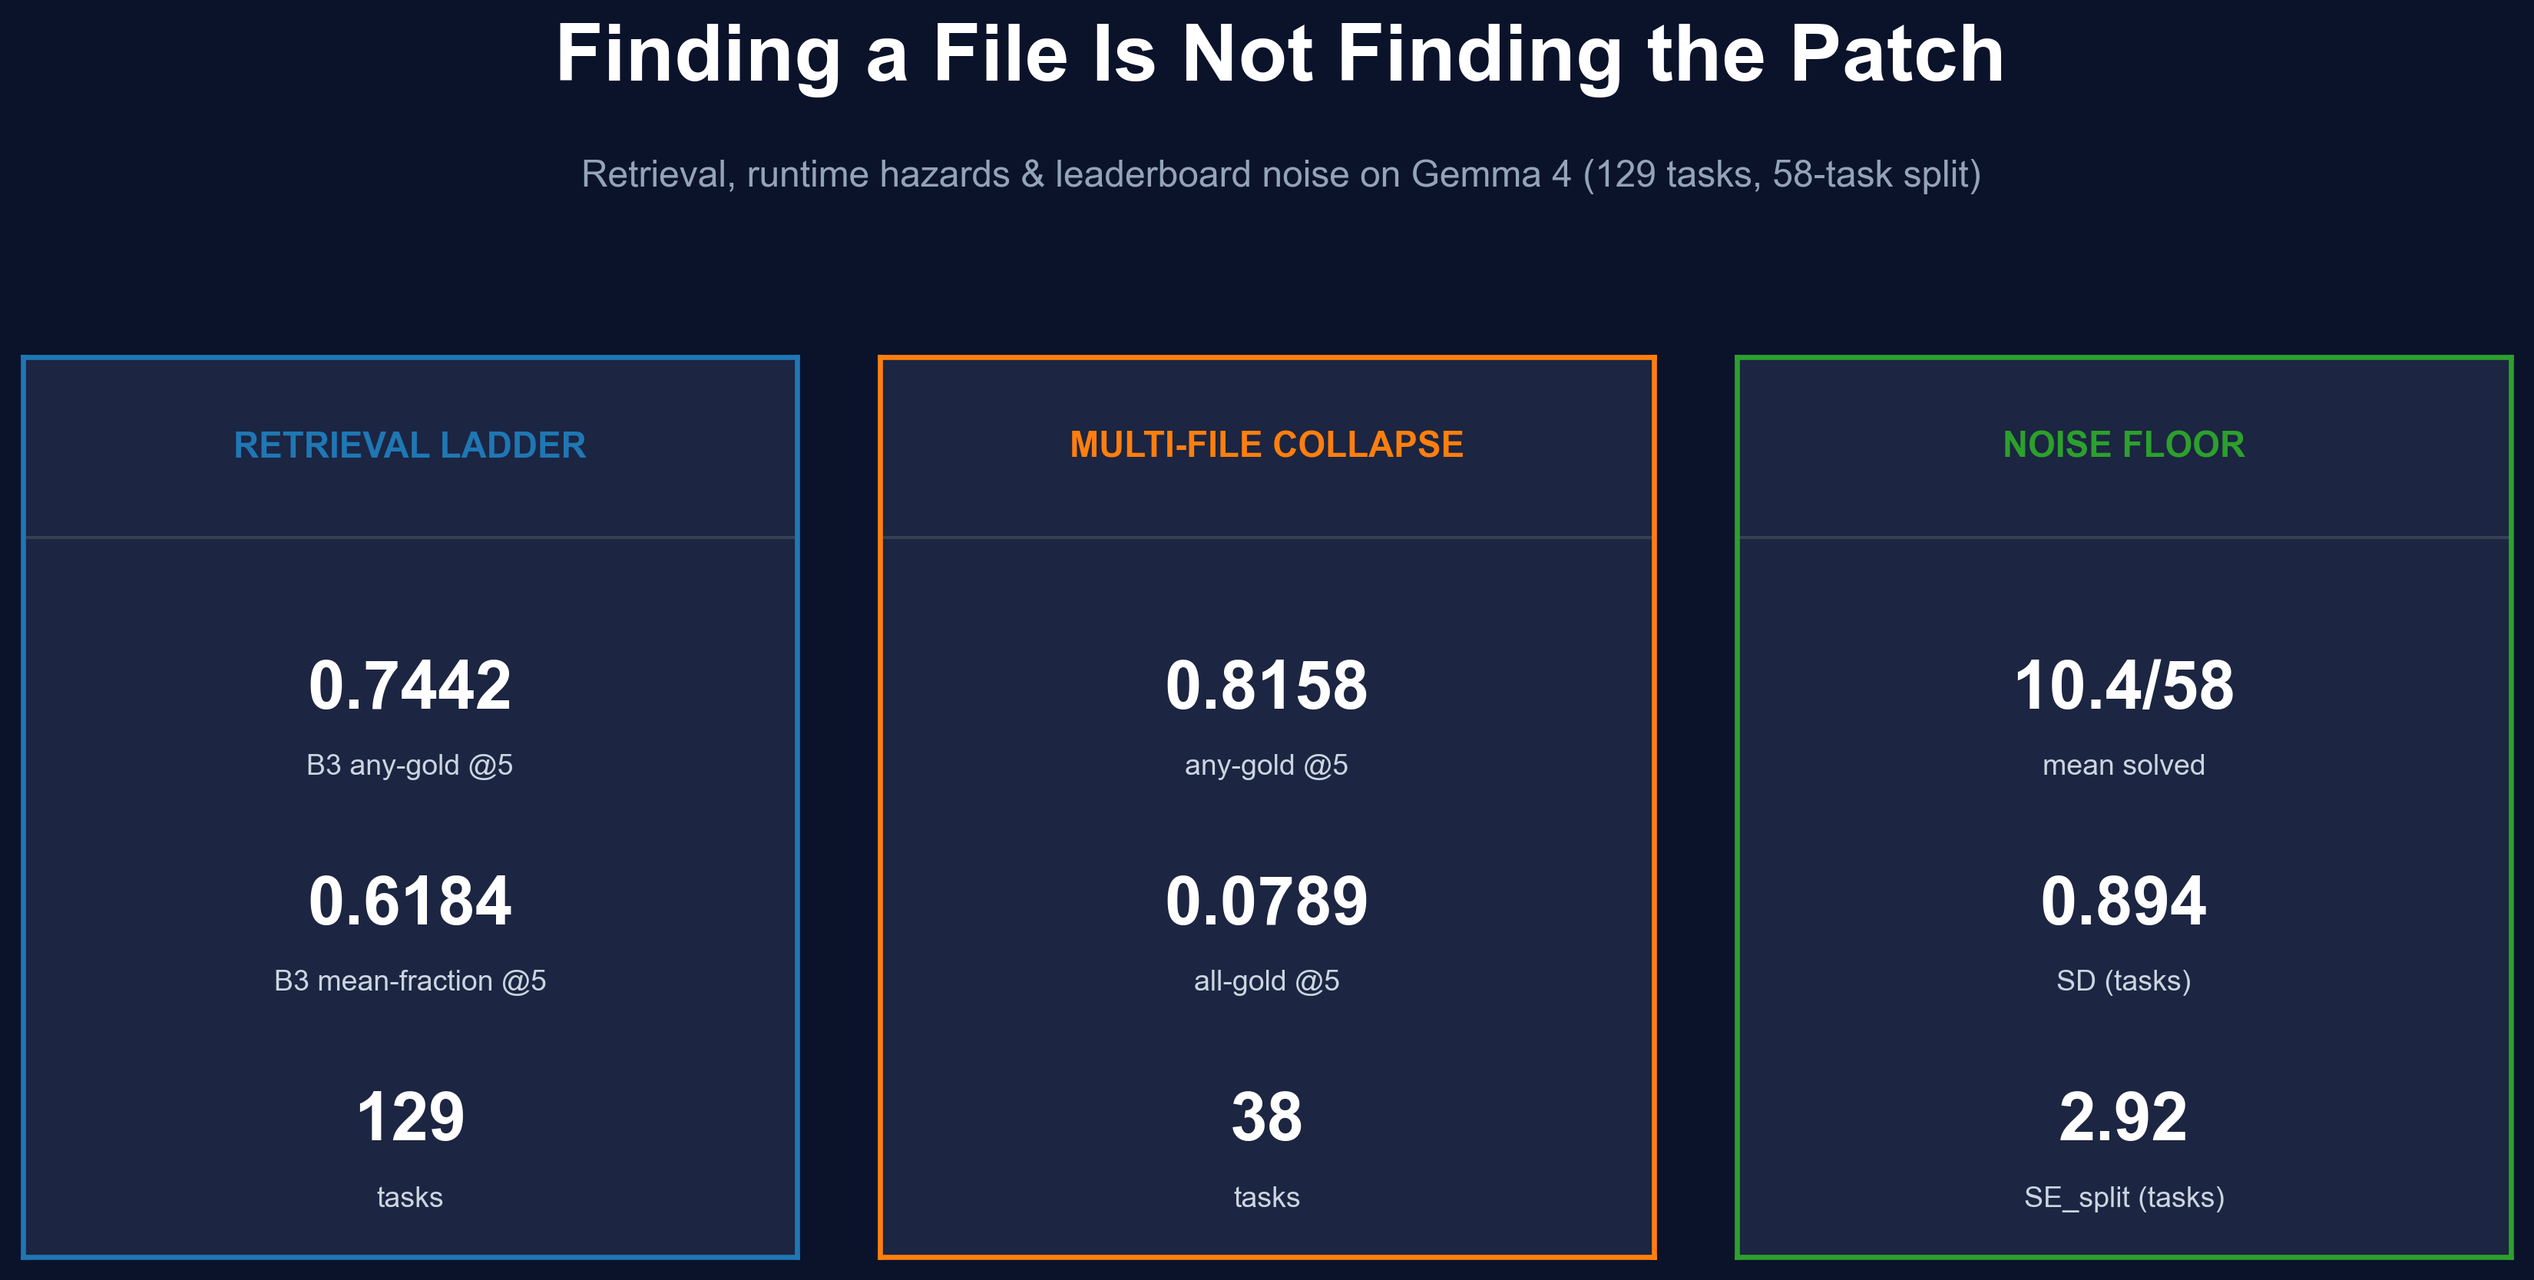
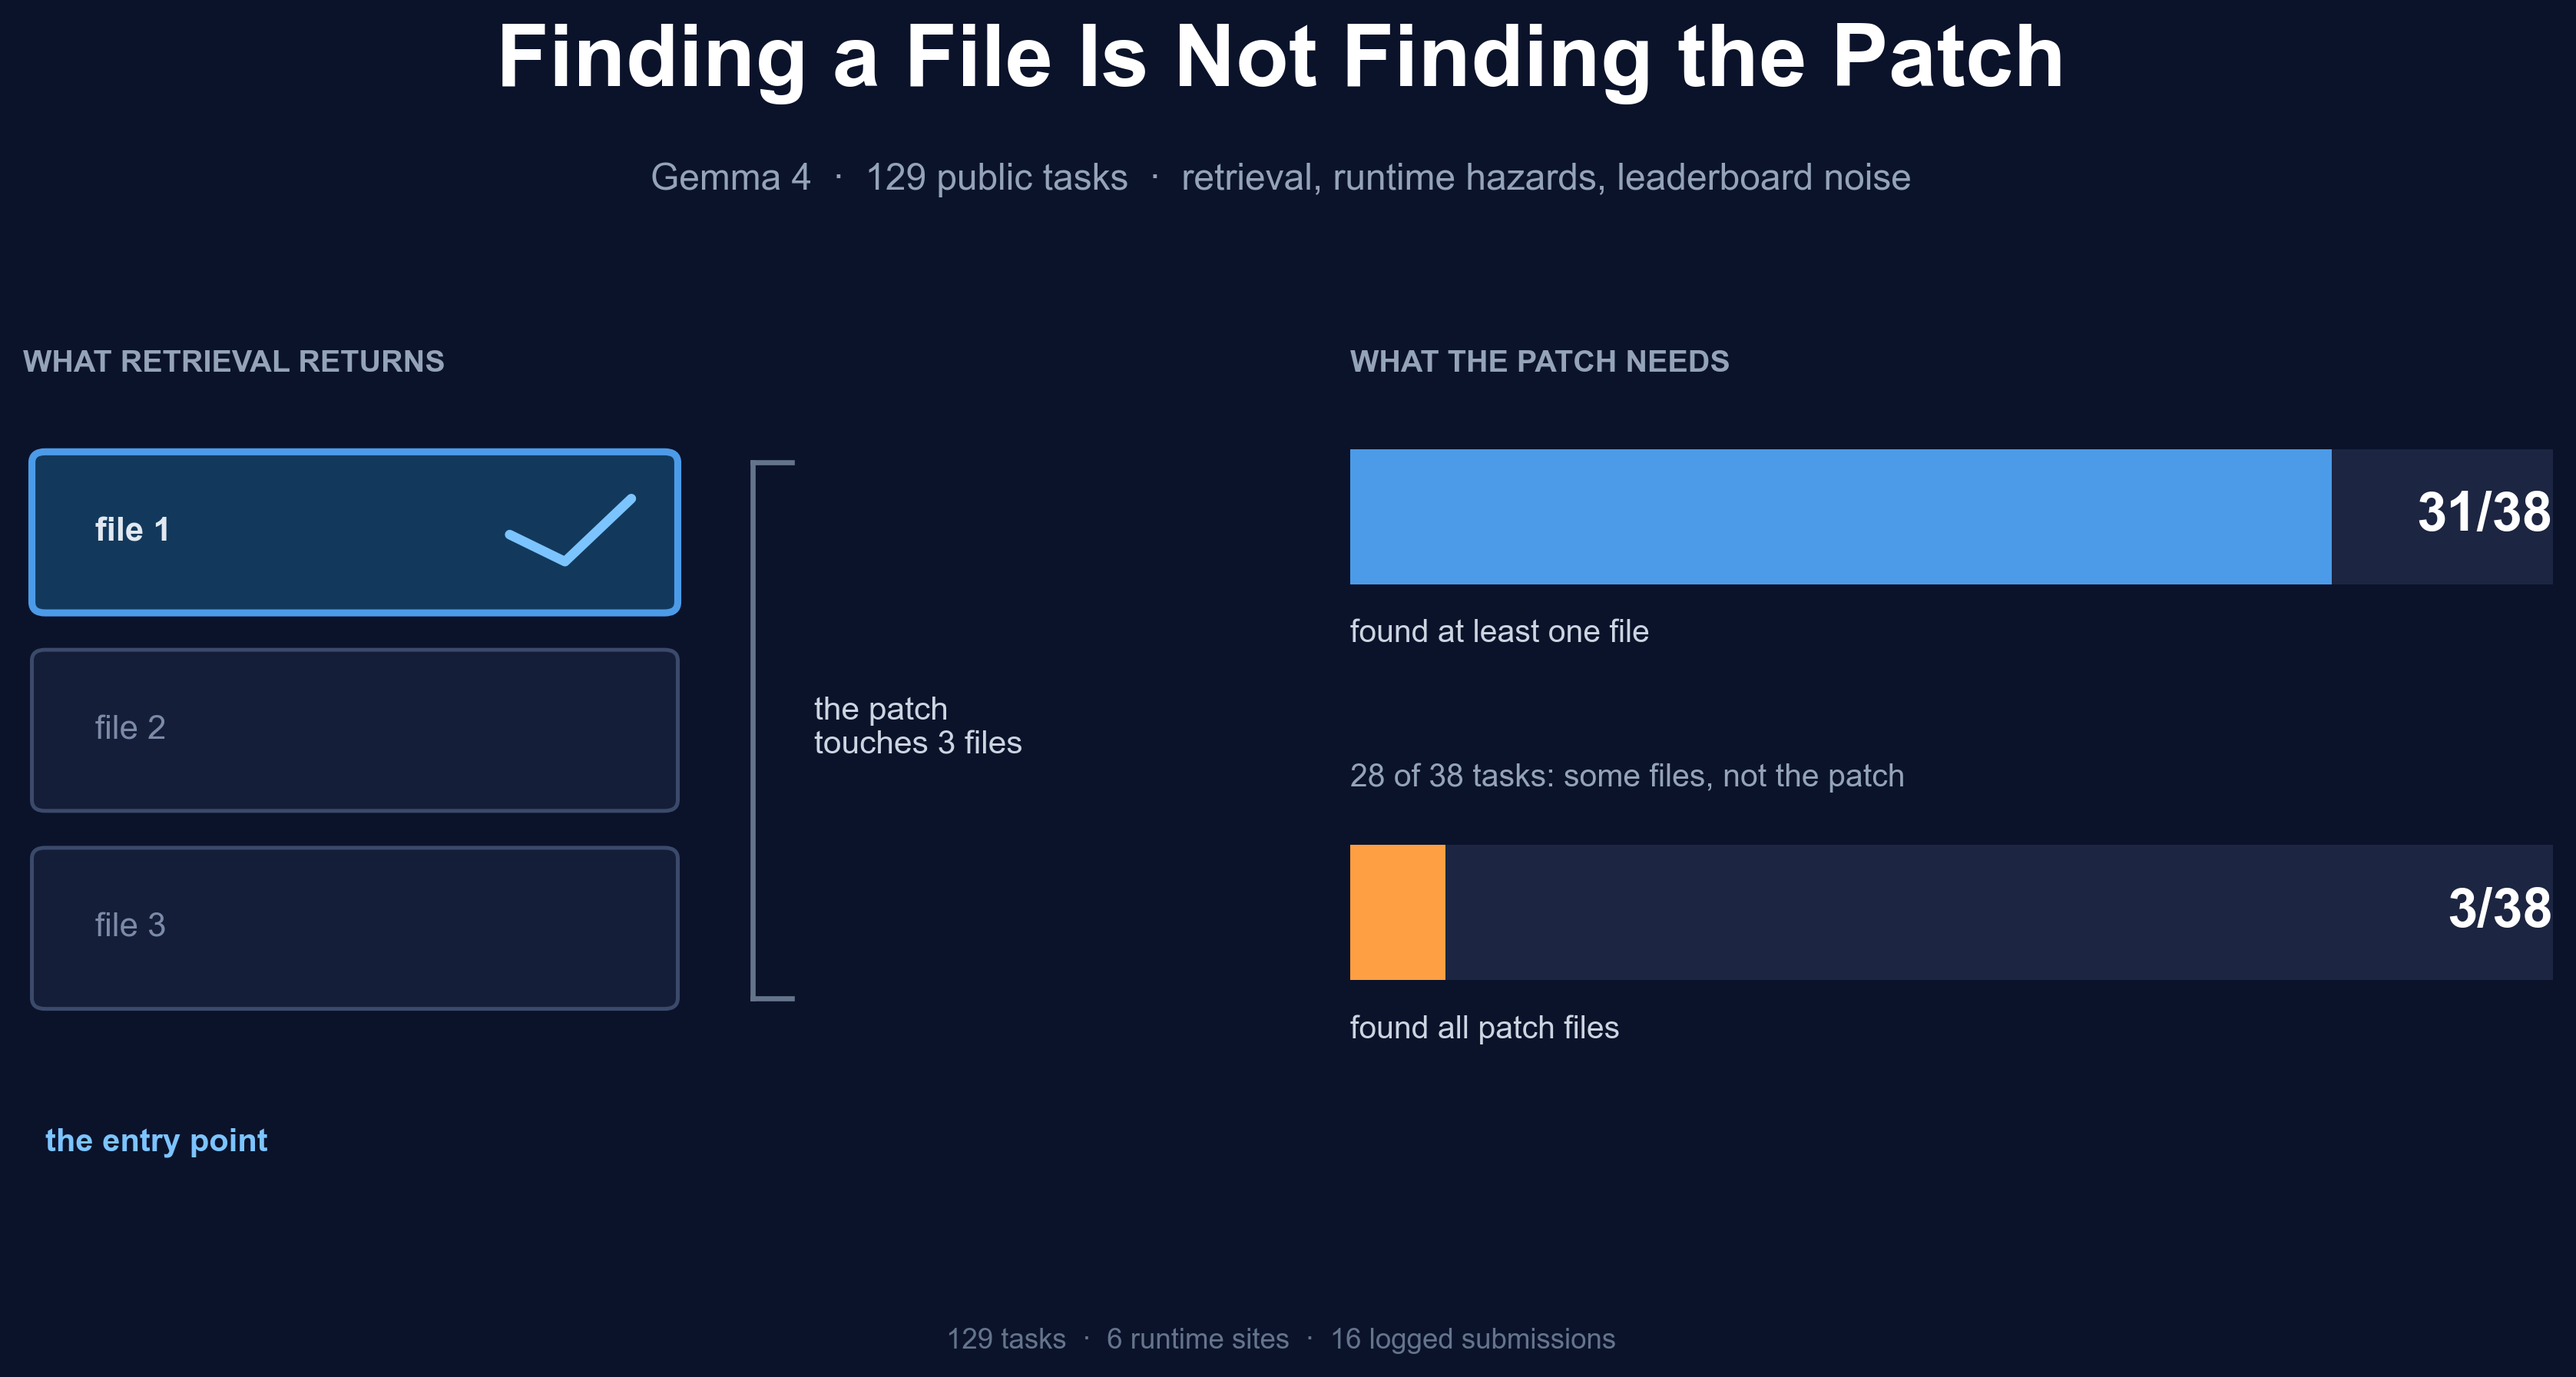
fig0: replace stat-card thumbnail with entry-point vs full-patch visual

diff --git a/scripts/generate_paper_figures.py b/scripts/generate_paper_figures.py
@@ -110,58 +110,80 @@ def ci_at(block: dict, k: int, metric: str) -> tuple[float, float, float]:
 # fig0 -- card thumbnail
 # =========================================================================== #
 def fig0(D):
-    ab, mf, lb = D["ablation"], D["multifile"], D["leaderboard"]
-    b3 = ab["results"]["B3"]["all"]
-    any5 = g(b3, "/@5/any_gold/value")
-    mfrac5 = g(b3, "/@5/mean_fraction/value")
+    ab, mf, lb, hz = D["ablation"], D["multifile"], D["leaderboard"], D["hazards"]
     multi = mf["buckets"]["all_multi"]
-    m_any = g(multi, "/control/k5/any_gold@5/value")
-    m_all = g(multi, "/control/k5/all_gold@5/value")
-    sd = lb["estimand_rows"][1]["sd_tasks"]
-    se = lb["estimand_rows"][2]["se_split_tasks"]
+    n_multi = multi["N"]
+    any_hits = multi["control"]["k5"]["any_gold@5"]["hits"]
+    all_hits = multi["control"]["k5"]["all_gold@5"]["hits"]
+    partial = any_hits - all_hits
+    n_sites = len([k for k in hz["sites"] if k.startswith("site") and len(k) == 5])
 
     fig = plt.figure(figsize=(12.0, 6.3), dpi=100)
     fig.patch.set_facecolor("#0b132b")
+
     fig.text(0.5, 0.925, "Finding a File Is Not Finding the Patch",
-             ha="center", va="center", color="#ffffff", fontsize=25, weight="bold")
+             ha="center", va="center", color="#ffffff", fontsize=27, weight="bold")
     fig.text(0.5, 0.845,
-             "Retrieval, runtime hazards & leaderboard noise on Gemma 4 "
-             f"({ab['N']} tasks, {lb['split_size']}-task split)",
+             f"Gemma 4  \u00b7  {ab['N']} public tasks  \u00b7  retrieval, runtime hazards, leaderboard noise",
              ha="center", va="center", color="#94a3b8", fontsize=11.5)
 
-    panels = [
-        ("Retrieval ladder", C_BLUE, [
-            ("B3 any-gold @5", f"{any5:.4f}"),
-            ("B3 mean-fraction @5", f"{mfrac5:.4f}"),
-            ("tasks", f"{ab['N']}"),
-        ]),
-        ("Multi-file collapse", C_ORANGE, [
-            ("any-gold @5", f"{m_any:.4f}"),
-            ("all-gold @5", f"{m_all:.4f}"),
-            ("tasks", f"{multi['N']}"),
-        ]),
-        ("Noise floor", C_GREEN, [
-            ("mean solved", f"{lb['estimand_rows'][1]['mean_tasks']:.1f}"
-                            f"/{lb['split_size']}"),
-            ("SD (tasks)", f"{sd:.3f}"),
-            ("SE_split (tasks)", f"{se:.2f}"),
-        ]),
+    # ---- left: one file found out of the three the patch needs ------------- #
+    ax = fig.add_axes([0.045, 0.12, 0.40, 0.62])
+    ax.set_xlim(0, 1); ax.set_ylim(0, 1); ax.axis("off")
+    ax.text(0.0, 0.98, "WHAT RETRIEVAL RETURNS", ha="left", va="top",
+            color="#94a3b8", fontsize=9.5, weight="bold")
+
+    card_x, card_w, card_h = 0.02, 0.56, 0.155
+    rows = [(0.70, True), (0.48, False), (0.26, False)]
+    for i, (y, found) in enumerate(rows):
+        face = "#12395c" if found else "#151e38"
+        edge = "#4c9be8" if found else "#3b4a6b"
+        ax.add_patch(patches.FancyBboxPatch(
+            (card_x, y), card_w, card_h, boxstyle="round,pad=0.012",
+            facecolor=face, edgecolor=edge, linewidth=2.2 if found else 1.2))
+        ax.text(card_x + 0.045, y + card_h / 2, f"file {i + 1}",
+                ha="left", va="center", color="#e2e8f0" if found else "#7c8aa8",
+                fontsize=10.5, weight="bold" if found else "normal")
+        if found:
+            ax.plot([card_x + 0.42, card_x + 0.47, card_x + 0.53],
+                    [y + 0.075, y + 0.045, y + 0.115],
+                    color="#7cc4ff", lw=3.0, solid_capstyle="round")
+
+    ax.plot([0.66, 0.66], [rows[-1][0], rows[0][0] + card_h], color="#64748b", lw=1.6)
+    for yy in (rows[-1][0], rows[0][0] + card_h):
+        ax.plot([0.66, 0.695], [yy, yy], color="#64748b", lw=1.6)
+    ax.text(0.715, 0.56, "the patch\ntouches 3 files", ha="left", va="center",
+            color="#cbd5e1", fontsize=10.2)
+    ax.text(0.02, 0.10, "the entry point", ha="left", va="center",
+            color="#7cc4ff", fontsize=10.0, weight="bold")
+
+    # ---- right: entry point vs all patch files ----------------------------- #
+    ax = fig.add_axes([0.525, 0.12, 0.435, 0.62])
+    ax.set_xlim(0, 1); ax.set_ylim(0, 1); ax.axis("off")
+    ax.text(0.0, 0.98, "WHAT THE PATCH NEEDS", ha="left", va="top",
+            color="#94a3b8", fontsize=9.5, weight="bold")
+
+    rows = [
+        (0.72, any_hits / n_multi, any_hits, "#4c9be8", "found at least one file"),
+        (0.28, all_hits / n_multi, all_hits, "#ff9f43", "found all patch files"),
     ]
-    for i, (title, colour, items) in enumerate(panels):
-        ax = fig.add_axes([0.045 + i * 0.31, 0.10, 0.28, 0.62])
-        ax.set_facecolor("#1c2541")
-        ax.set_xticks([]); ax.set_yticks([])
-        for sp in ax.spines.values():
-            sp.set_color(colour); sp.set_linewidth(1.6)
-        ax.text(0.5, 0.90, title.upper(), ha="center", va="center",
-                color=colour, fontsize=11, weight="bold", transform=ax.transAxes)
-        ax.axhline(0.80, color="#334155", lw=1.0)
-        for j, (label, value) in enumerate(items):
-            y = 0.63 - j * 0.24
-            ax.text(0.5, y, value, ha="center", va="center", color="#ffffff",
-                    fontsize=21, weight="bold", transform=ax.transAxes)
-            ax.text(0.5, y - 0.085, label, ha="center", va="center",
-                    color="#cbd5e1", fontsize=9, transform=ax.transAxes)
+    for y, frac, hits, colour, label in rows:
+        ax.add_patch(patches.Rectangle((0.0, y), 1.0, 0.15, facecolor="#1c2541",
+                                       edgecolor="none"))
+        ax.add_patch(patches.Rectangle((0.0, y), max(frac, 0.006), 0.15,
+                                       facecolor=colour, edgecolor="none"))
+        ax.text(1.0, y + 0.075, f"{hits}/{n_multi}", ha="right", va="center",
+                color="#ffffff", fontsize=17, weight="bold")
+        ax.text(0.0, y - 0.055, label, ha="left", va="center",
+                color="#cbd5e1", fontsize=9.8)
+
+    ax.text(0.0, 0.505, f"{partial} of {n_multi} tasks: some files, not the patch",
+            ha="left", va="center", color="#94a3b8", fontsize=9.8)
+
+    fig.text(0.5, 0.045,
+             f"{ab['N']} tasks  \u00b7  {n_sites} runtime sites  \u00b7  "
+             f"{lb['ledger_summary']['n_runs']} logged submissions",
+             ha="center", va="center", color="#64748b", fontsize=8.8)
     save(fig, "fig0_card_thumbnail.png", face="#0b132b")
 
 
